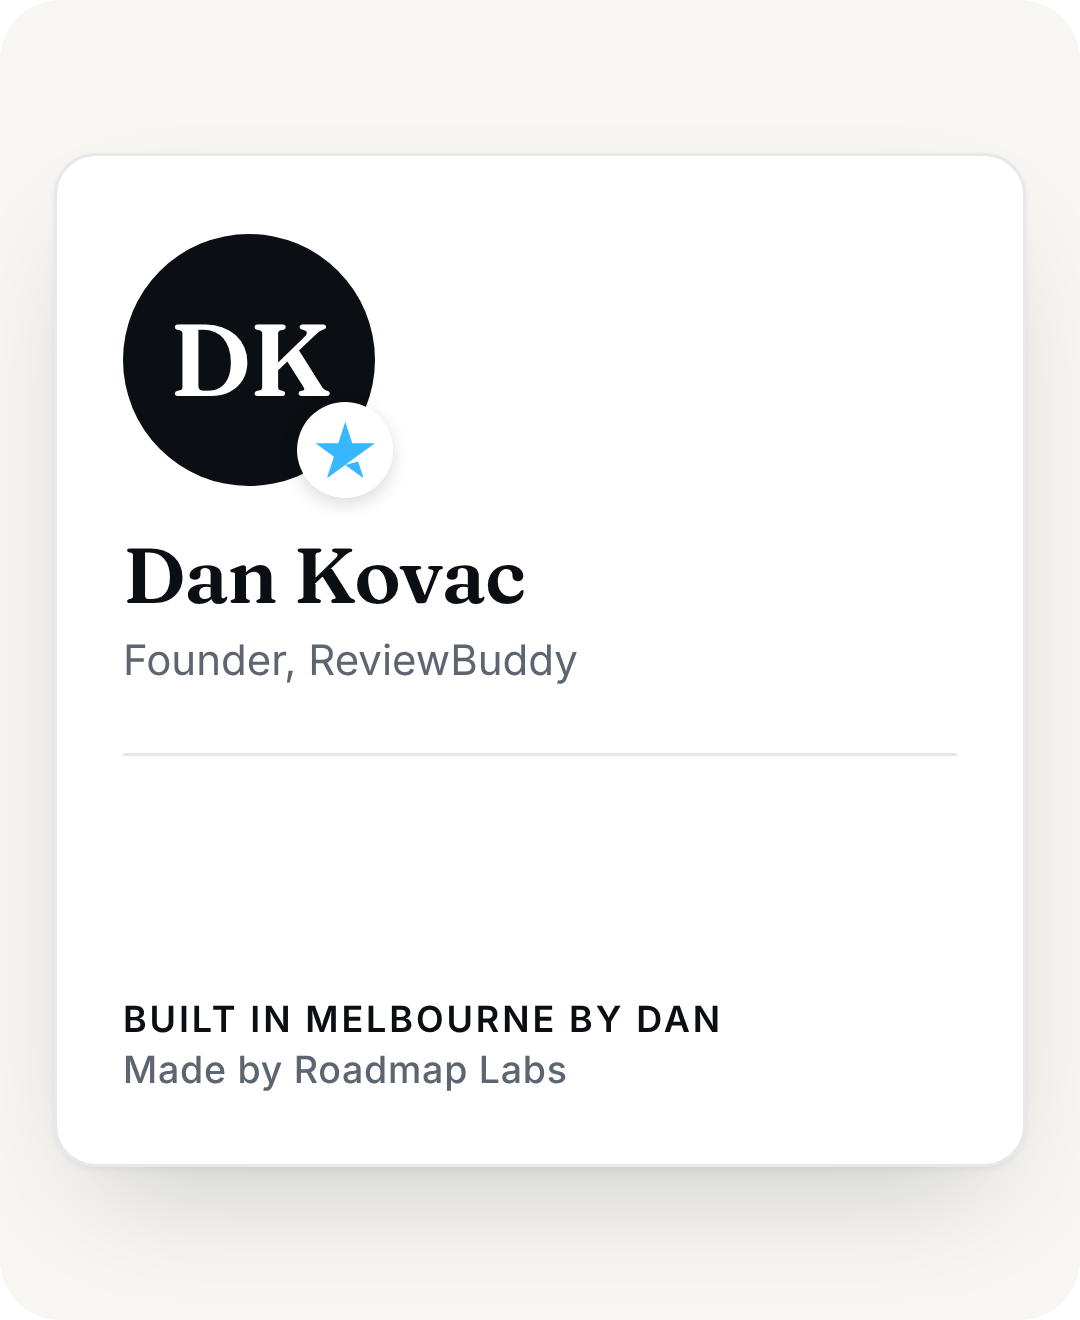
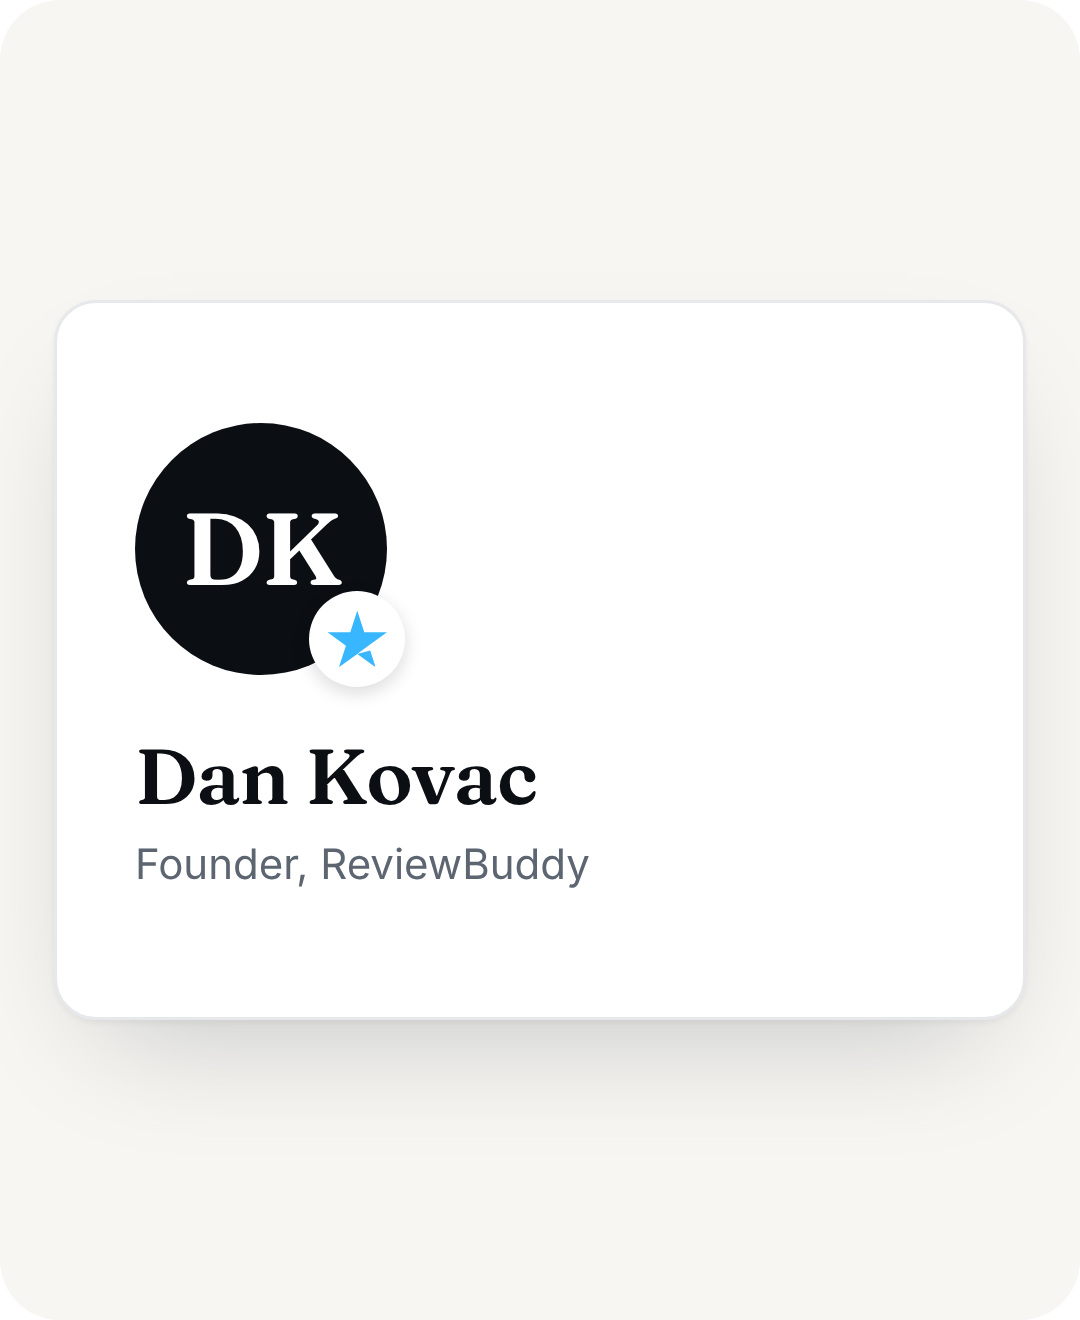
Swap in the v4 founder art and the final review-screen lines.
The founder cards are the avatar, name and title. The bento lead and the review-sites caption use the approved demo-data wording.

diff --git a/components/feature-bento.tsx b/components/feature-bento.tsx
@@ -44,10 +44,10 @@ export function FeatureBento() {
           <ArtImage
             desktop={sources.desktop}
             mobile={sources.mobile}
-            alt="The ReviewBuddy review sources screen for Demo Plumbing Co, listing the sites connected to the account. The business name is demo data."
+            alt="Review sites for Demo Plumbing Co. The business name is demo data."
           />
         </div>
-        <p className="bento-note">Review sites connected for Demo Plumbing Co. Demo data for illustration. Not real customers or reviews.</p>
+        <p className="bento-note">Review sites for Demo Plumbing Co. Demo data for illustration. Not real customers or reviews.</p>
       </article>
       <article className="bento-card">
         <div className="bento-copy">

diff --git a/app/page.tsx b/app/page.tsx
@@ -210,7 +210,7 @@ export default function HomePage() {
             <p className="eyebrow">Inside ReviewBuddy</p>
             <h2 className="mt-3">All your reviews in one place</h2>
             <p className="lead mt-4 text-[var(--rb-text-muted)]">
-              These are crops of the real Reviews screen in the app. The names and reviews are demo data.
+              These are real screens from the app. The business name is demo data.
             </p>
           </div>
           <FeatureBento />

diff --git a/components/founder-note.tsx b/components/founder-note.tsx
@@ -27,7 +27,7 @@ export function FounderNote() {
                 width: 1080,
                 height: 1320,
               }}
-              alt="A lettering card for Dan Kovac, founder of ReviewBuddy. It shows the initials DK and his name. It is not a photograph."
+              alt="Dan Kovac, Founder, ReviewBuddy"
             />
           </figure>
           <article className="founder-card">
